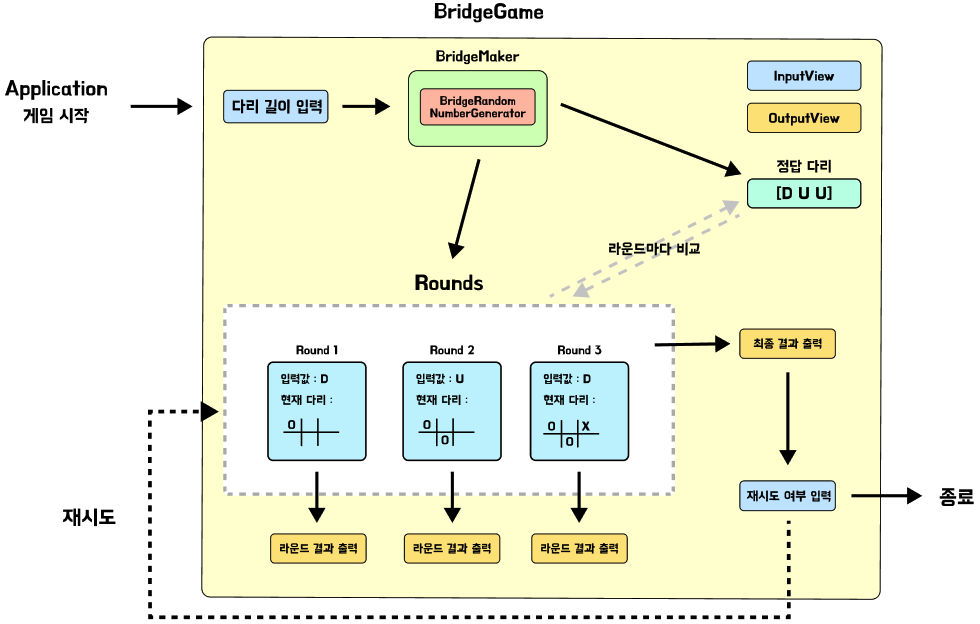
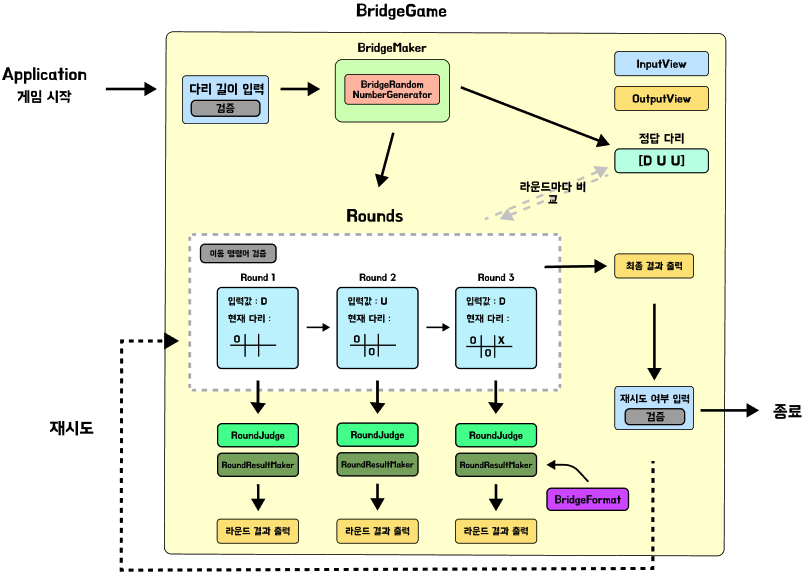
docs(README): 이미지 파일 수정 및 기능 목록 업데이트

diff --git a/docs/README.md b/docs/README.md
@@ -45,27 +45,33 @@
 <br>
 
 - `service` 패키지
-   - `BridgeGame` : 다리건너기 게임을 관리하는 컨트롤러 클래스
-   - `BridgeMaker` : 사용자가 입력한 길이를 가진 다리를 생상하는 클래스
-   - `GameAttribute` : 게임에 관련된 요소들을 상수로 갖는 `enum`
-   - `Round` : 게임내에서 존재하는 각 라운드를 생성하는 클래스 
+    - `BridgeGame` : 다리건너기 게임을 관리하는 컨트롤러 클래스
+    - `BridgeMaker` : 사용자가 입력한 길이를 가진 다리를 생상하는 클래스
+    - `GameAttribute` : 게임에 관련된 요소들을 상수로 갖는 `enum`
+    - `Round` : 게임내에서 존재하는 각 라운드를 생성하는 클래스
+    - `RoundJudge` : 각 라운드의 실패와 성공등의 판정을 내리는 클래스
+    - `RoundResultMaker` : 각 라운드마다 출력되는 다리를 만드는 클래스
+    
 
 
 - `util` 패키지
-   - `InputView` : 게임중 사용자의 입력을 받는 클래스
-   - `OutputView` : 게임중 출력을 담당하는 클래스
+    - `InputView` : 게임중 사용자의 입력을 받는 클래스
+    - `OutputView` : 게임중 출력을 담당하는 클래스
 
 
 - `validation` 패키지
-   - `InputValidation` : 사용자의 입력값을 검증하는 클래스
+    - `Validation` : 사용자의 입력값을 검증하는 클래스
    
 
 - `view` 패키지
-   - `Bridge` : 각 라운드별로 출력되는 다리의 요소들을 상수로 갖는 `enum`
-   - `Errors` : 사용자의 입력값 오류시 발생하는 에러 메세지들을 상수로 갖는 `enum`
-   - `Messages` : 게임 진행중 출력되는 메세지들을 상수로 갖는 `enum`
+    - `Errors` : 사용자의 입력값 오류시 발생하는 에러 메세지들을 상수로 갖는 `enum`
+    - `Messages` : 게임 진행중 출력되는 메세지들을 상수로 갖는 `enum`
 
 
-
+- `constant` 패키지
+    - `Bridge` : 다리의 기본 설정 요소들을 상수로 갖는 `enum`  
+    - `BridgPiece` : 다리가 출력될 때 필요한 요소들을 상수로 갖는 `enum`  
+    - `GameCommand` : 게임 실행중 입력되는 명령어들 상수로 갖는 `enum`  
+    - `GameResultConstant` : 게임에 대한 결과를 상수로 갖는 `enum`  
 
 
